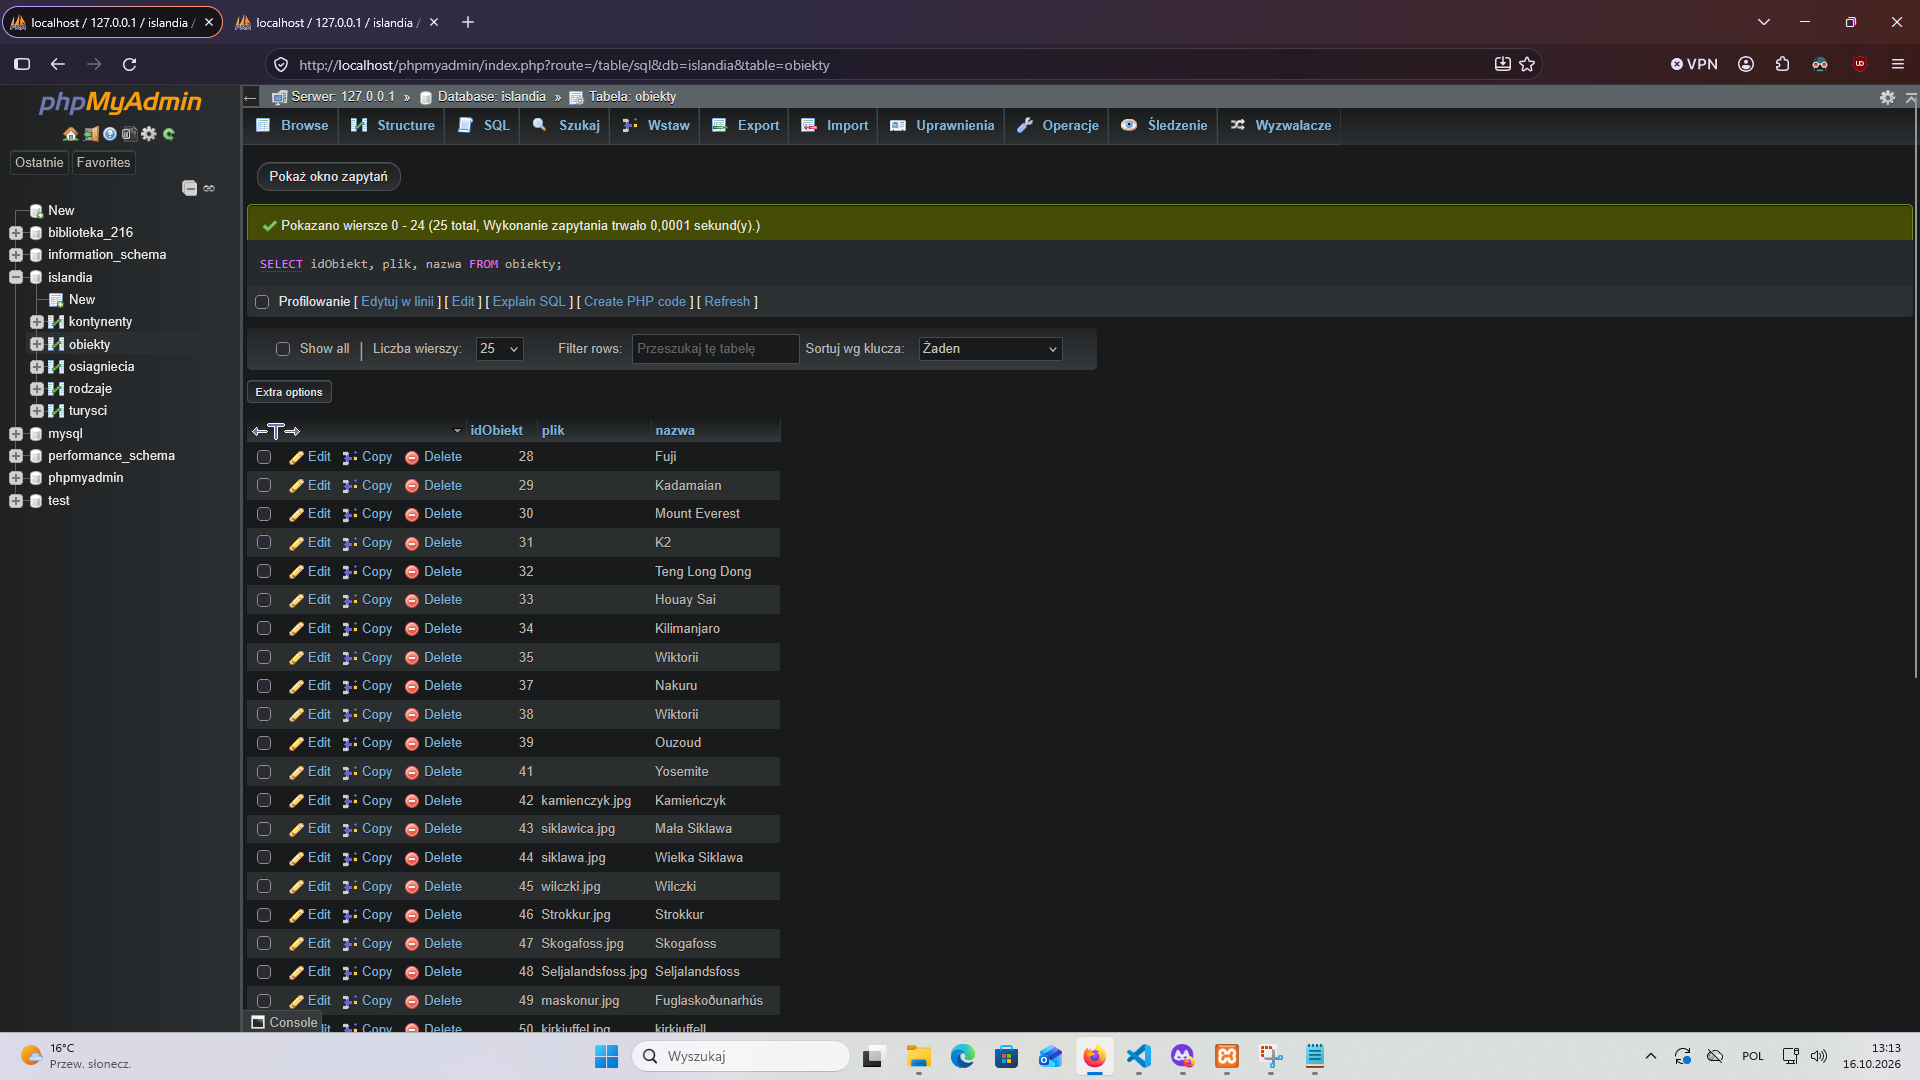
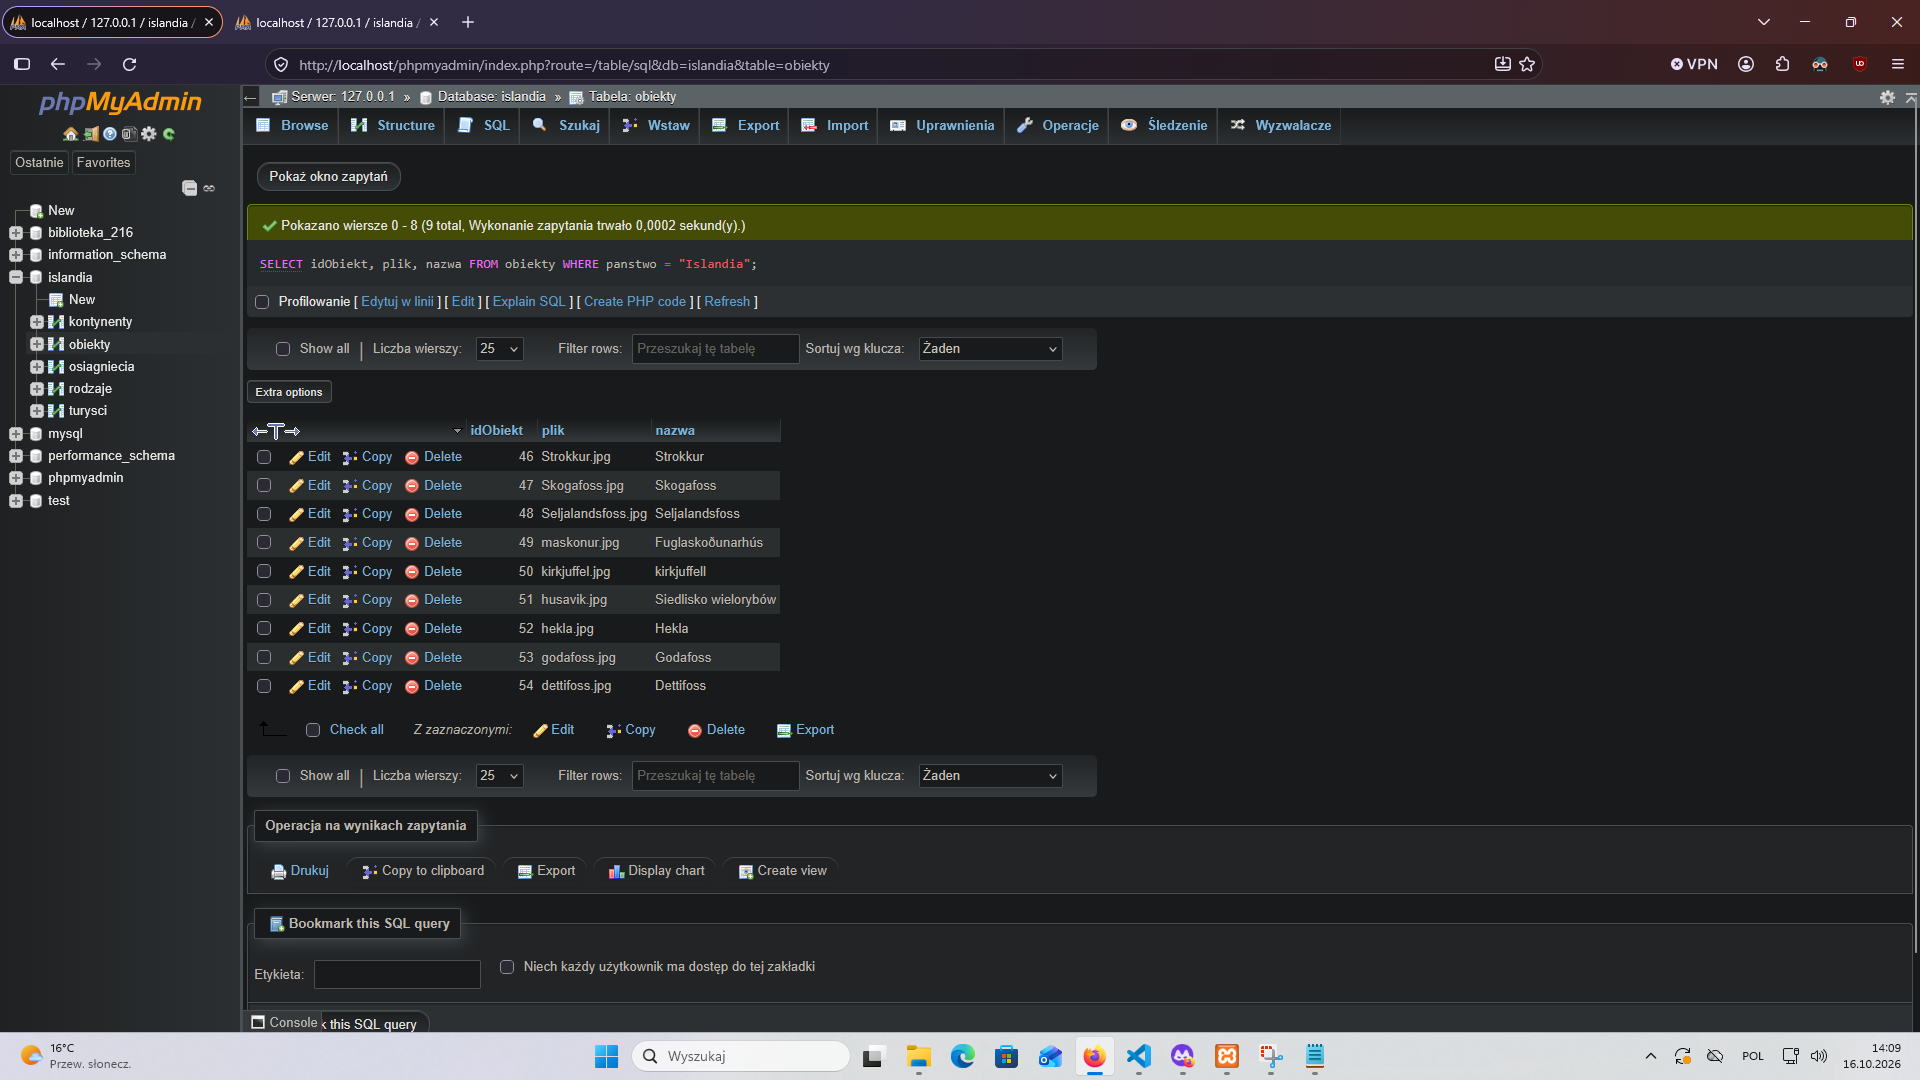
Third script

Changed region(s): [[0.125, 0.3972, 0.5625, 0.9778], [0.2188, 0.1833, 0.4062, 0.2139]]

diff --git a/Islandie/islandia.php b/Islandie/islandia.php
@@ -59,7 +59,21 @@
     <main>
         <h2>Galeria</h2>
         <section>
+            <?php
+            $adress = "localhost";
+            $login = "root";
+            $pass = "";
+            $dbName = "islandia";
+            $conn = mysqli_connect($adress, $login, $pass, $dbName);
+            $query = 'SELECT idObiekt, plik, nazwa FROM obiekty WHERE panstwo = "Islandia";';
+            $result = mysqli_query($conn, $query);
+            while ($fetched = mysqli_fetch_row($result)) {
+                echo "<a href='obiekty.php?idObject={$fetched[0]}' ><img src='{$fetched[1]}' alt='{$fetched[2]}' title='{$fetched[2]}' class='miniatury'></img></a>";
+            }
 
+
+            mysqli_close($conn);
+            ?>
         </section>
     </main>
 
